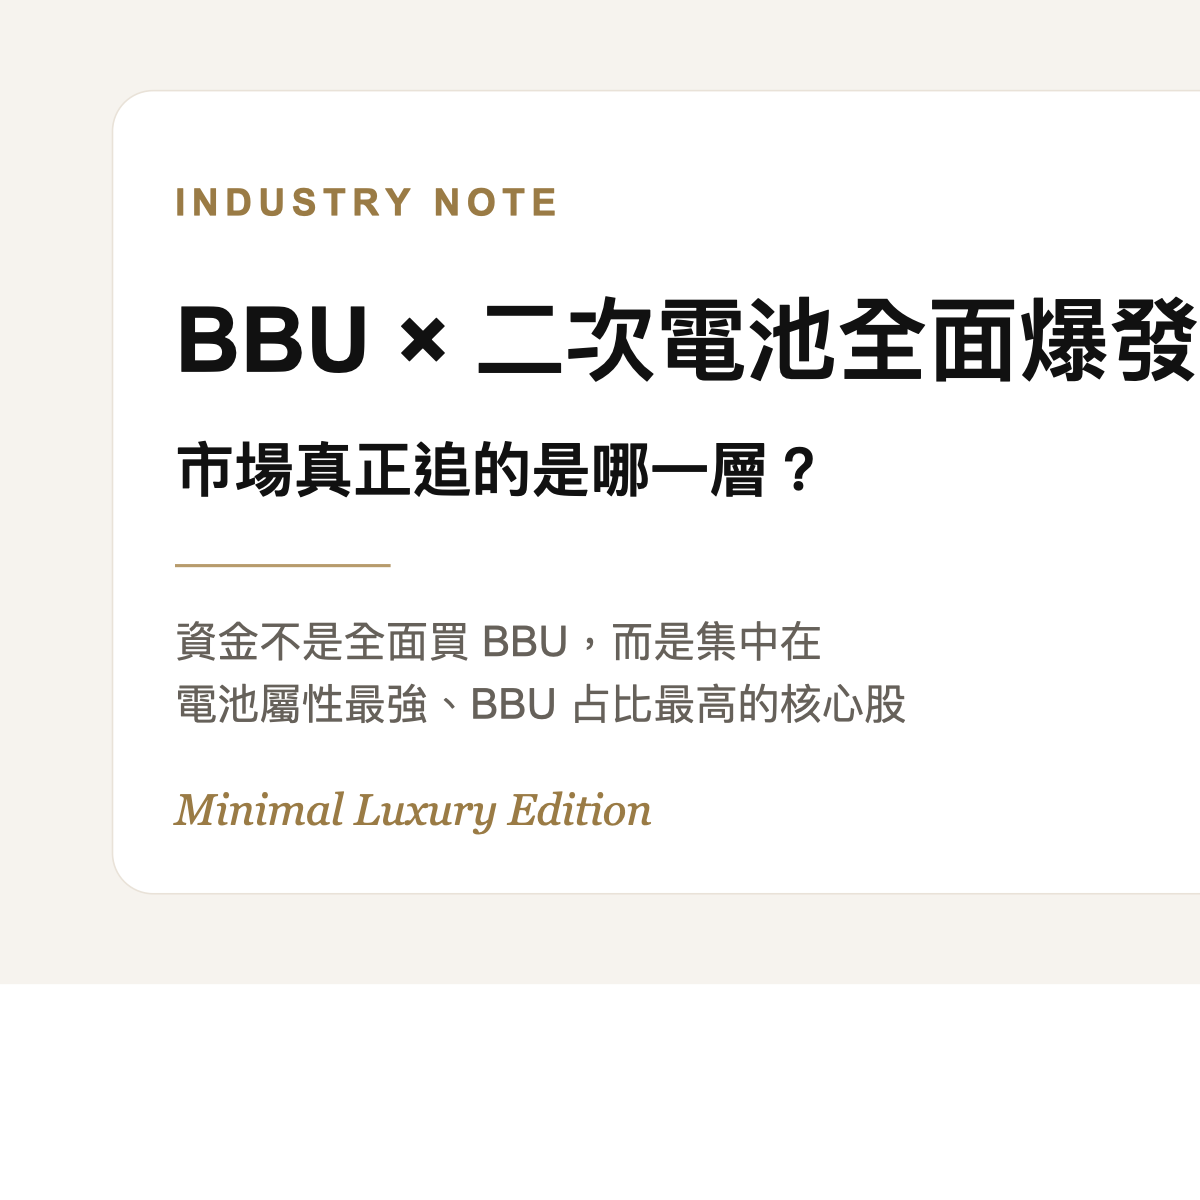
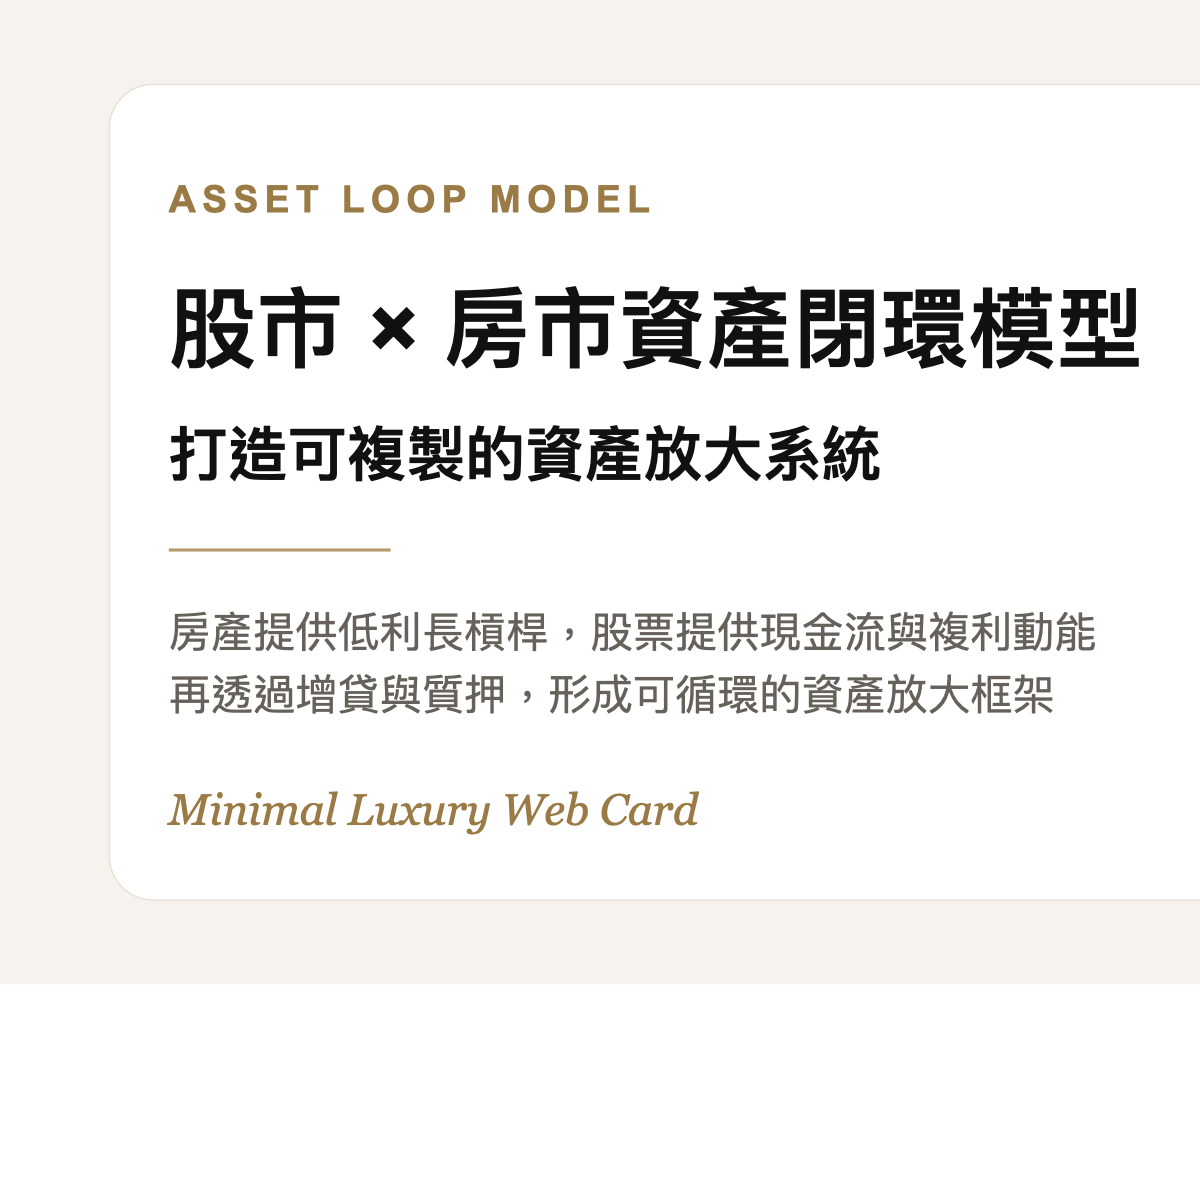
Publish asset loop landing page

Changed region(s): [[0.1233, 0.2158, 1.0, 0.6167], [0.1542, 0.6475, 0.5858, 0.7092], [0.1233, 0.1542, 0.555, 0.185]]

diff --git a/index.html b/index.html
@@ -3,11 +3,11 @@
 <head>
   <meta charset="UTF-8" />
   <meta name="viewport" content="width=device-width, initial-scale=1.0" />
-  <title>BBU × 二次電池全面爆發，市場真正追的是哪一層？</title>
-  <meta name="description" content="整理 BBU × 二次電池概念股文章重點、族群分化、方舟複盤觀點，以及圖片中可能對應公司名單。" />
-  <meta property="og:title" content="BBU × 二次電池全面爆發，市場真正追的是哪一層？" />
-  <meta property="og:description" content="資金不是全面買 BBU，而是集中追逐電池屬性最強、BBU 業務占比最高的核心股。" />
-  <meta property="og:type" content="article" />
+  <title>股市 × 房市資產閉環模型，打造可複製的資產放大系統</title>
+  <meta name="description" content="用房產低利長槓桿，結合股票高流動性與複利動能，整理成一套可理解的資產閉環模型與風控框架。" />
+  <meta property="og:title" content="股市 × 房市資產閉環模型" />
+  <meta property="og:description" content="用房產低利長槓桿，結合股票複利與現金流，形成可複製的資產放大系統。" />
+  <meta property="og:type" content="website" />
   <meta property="og:image" content="./cover.png" />
   <style>
     :root {
@@ -19,6 +19,7 @@
       --accent2: #e8dece;
       --line: #e9e2d8;
       --good: #9a7b45;
+      --warn: #8a5a44;
     }
     * { box-sizing: border-box; }
     body {
@@ -29,26 +30,59 @@
       line-height: 1.9;
     }
     .wrap {
-      max-width: 980px;
+      max-width: 1060px;
       margin: 0 auto;
-      padding: 48px 24px 88px;
+      padding: 42px 24px 88px;
     }
     .hero {
-      background: #ffffff;
+      background: #fff;
       border: 1px solid var(--line);
       border-radius: 28px;
-      padding: 44px;
+      padding: 48px;
       box-shadow: 0 18px 45px rgba(17, 17, 17, 0.05);
     }
-    h1 { font-size: 2.5rem; line-height: 1.22; margin: 0 0 14px; letter-spacing: -0.02em; }
-    h2 { font-size: 1.35rem; margin-top: 46px; letter-spacing: 0.01em; }
-    p, li { font-size: 1.02rem; }
-    .lead { color: var(--sub); font-size: 1.08rem; max-width: 760px; }
+    .eyebrow {
+      display: inline-block;
+      color: var(--good);
+      font-size: .9rem;
+      letter-spacing: .18em;
+      font-weight: 700;
+      margin-bottom: 12px;
+    }
+    h1 {
+      font-size: 2.7rem;
+      line-height: 1.2;
+      letter-spacing: -0.02em;
+      margin: 0 0 18px;
+    }
+    h2 {
+      font-size: 1.45rem;
+      margin: 46px 0 16px;
+      letter-spacing: .01em;
+    }
+    h3 {
+      font-size: 1.1rem;
+      margin: 0 0 8px;
+    }
+    p, li {
+      font-size: 1.02rem;
+    }
+    .lead {
+      color: var(--sub);
+      max-width: 820px;
+      font-size: 1.08rem;
+    }
+    .cover {
+      width: 100%;
+      border-radius: 24px;
+      margin: 26px 0 8px;
+      border: 1px solid var(--line);
+      box-shadow: 0 10px 28px rgba(17,17,17,.05);
+    }
     .grid {
       display: grid;
       grid-template-columns: repeat(auto-fit, minmax(240px, 1fr));
       gap: 16px;
-      margin-top: 22px;
     }
     .card {
       background: var(--card);
@@ -60,94 +94,218 @@
     .tag {
       display: inline-block;
       padding: 4px 10px;
+      border-radius: 999px;
       background: #f7f1e8;
       color: var(--good);
-      border-radius: 999px;
-      font-size: 0.85rem;
+      font-size: .83rem;
       font-weight: 700;
+      margin-bottom: 10px;
+    }
+    .timeline {
+      display: grid;
+      gap: 18px;
+    }
+    .step {
+      background: #fff;
+      border: 1px solid var(--line);
+      border-radius: 22px;
+      padding: 24px;
+    }
+    .step-no {
+      color: var(--good);
+      font-weight: 800;
+      letter-spacing: .14em;
+      font-size: .85rem;
       margin-bottom: 8px;
+    }
+    .note, .warn {
+      border-radius: 18px;
+      padding: 18px 20px;
+      margin-top: 18px;
     }
     .note {
       background: #fffdfa;
       border-left: 4px solid var(--accent);
-      padding: 14px 16px;
-      border-radius: 12px;
       color: var(--sub);
     }
-    .list li { margin-bottom: 8px; }
-    .footer {
-      margin-top: 48px;
-      color: #8a8278;
-      font-size: 0.92rem;
+    .warn {
+      background: #fff8f5;
+      border-left: 4px solid #bb7a5f;
+      color: var(--warn);
     }
-    a { color: #8c6b35; }
-    .cover {
-      width: 100%;
-      max-width: 100%;
-      border-radius: 20px;
-      margin: 24px 0;
-      border: 1px solid var(--line);
-      box-shadow: 0 10px 30px rgba(0,0,0,.06);
+    .two {
+      display: grid;
+      grid-template-columns: repeat(auto-fit, minmax(300px, 1fr));
+      gap: 18px;
+    }
+    ul { padding-left: 1.2rem; }
+    .cta {
+      background: #111111;
+      color: #f6f3ee;
+      border-radius: 28px;
+      padding: 34px;
+      margin-top: 48px;
+    }
+    .cta p { color: #e7dfd3; }
+    .btn {
+      display: inline-block;
+      margin-top: 10px;
+      padding: 12px 18px;
+      border-radius: 999px;
+      background: #f6f3ee;
+      color: #111111;
+      text-decoration: none;
+      font-weight: 700;
+    }
+    .footer {
+      margin-top: 42px;
+      color: #8a8278;
+      font-size: .92rem;
     }
   </style>
 </head>
 <body>
   <main class="wrap">
     <section class="hero">
-      <div class="tag">INDUSTRY NOTE</div>
-      <h1>BBU × 二次電池全面爆發，市場真正追的是哪一層？</h1>
-      <p class="lead">這波盤面不是全面亂買 BBU，而是明顯集中在電池屬性最強、BBU 業務占比最高的核心公司。真正要看的不是題材有沒有熱，而是資金到底往哪一層集中。</p>
+      <div class="eyebrow">ASSET LOOP MODEL</div>
+      <h1>股市 × 房市資產閉環模型，打造可複製的資產放大系統</h1>
+      <p class="lead">核心邏輯是用房產的低利長槓桿，結合股票的高流動性與複利動能，形成一套可循環、可擴張、但必須嚴守風控的資產操作框架。</p>
     </section>
 
-    <img class="cover" src="./cover.png" alt="BBU 概念股整理圖卡" />
+    <img class="cover" src="./cover.png" alt="股市與房市資產閉環模型圖卡" />
 
-    <h2>一、這篇文章的核心重點</h2>
-    <ul class="list">
-      <li>BBU（Battery Backup Unit）是 AI 伺服器機櫃中的備援供電系統，當外部電力異常時，可確保伺服器完成資料寫入與安全切換。</li>
-      <li>NVIDIA 在 GB200、GB300 架構下，讓 BBU 從過去的選配逐步走向標配，需求邏輯因此大幅強化。</li>
-      <li>市場今天並不是平均追整個 BBU 概念，而是精準追逐「電池屬性強、BBU 受惠深」的核心股。</li>
-    </ul>
-
+    <h2>這套模型在做什麼</h2>
     <div class="grid">
       <div class="card">
-        <div class="tag">主線觀察</div>
-        <p><strong>真正爆發的核心</strong><br>順達、新盛力、AES-KY、加百裕</p>
+        <div class="tag">核心一</div>
+        <h3>房產當資產基座</h3>
+        <p>用低利率、長年限的房貸槓桿，建立抗通膨、可增值、可再融資的底層資產。</p>
       </div>
       <div class="card">
-        <div class="tag">分化觀察</div>
-        <p><strong>相對溫和的 BBU 概念</strong><br>台達電、光寶科屬電源轉換層，今日明顯不在最強主升段。</p>
+        <div class="tag">核心二</div>
+        <h3>股票當現金流與複利引擎</h3>
+        <p>用高股息 ETF 支應利息壓力，用成長與槓桿型部位爭取資產加速放大。</p>
       </div>
       <div class="card">
-        <div class="tag">市場訊號</div>
-        <p><strong>資金投票邏輯</strong><br>電池屬性越純、BBU 業務占比越高，漲幅通常越集中。</p>
+        <div class="tag">核心三</div>
+        <h3>再增貸與質押形成循環</h3>
+        <p>當房產與股票部位累積到一定水位後，再透過增貸與質押擴張下一輪頭期款。</p>
       </div>
     </div>
 
-    <h2>二、圖片中被模糊公司欄位，高機率對應名單</h2>
-    <div class="note">以下是依據文章正文、可見數字輪廓、上下文描述交叉比對後的高機率結果。最可靠的是 6 檔主名單，其中一列模糊代號無法 100% 確認，不建議硬判。</div>
-    <ul class="list">
-      <li><strong>3211 順達</strong>，二次電池模組，BBU 核心製造商</li>
-      <li><strong>4931 新盛力</strong>，二次電池模組，BBU 黑馬</li>
-      <li><strong>6781 AES-KY</strong>，鋰電池模組，BBU 高附加價值領導廠</li>
-      <li><strong>3323 加百裕</strong>，二次電池模組，轉型切入 BBU</li>
-      <li><strong>2308 台達電</strong>，BBU 電源轉換層</li>
-      <li><strong>2301 光寶科</strong>，BBU 電源轉換層</li>
-    </ul>
+    <h2>500 萬可操作的四階段 SOP</h2>
+    <div class="timeline">
+      <section class="step">
+        <div class="step-no">STEP 01</div>
+        <h3>以房代管，先建立資產基座</h3>
+        <p>以 500 萬作為頭期款，鎖定具備增值潛力的地段，例如桃園龜山、青埔等科技走廊，購入約 2,000 萬至 2,500 萬的預售屋或新成屋。</p>
+        <ul>
+          <li>房地產的優勢在於，一般人可取得利率最低、年限最長的槓桿。</li>
+          <li>房產本質上是抗通膨的儲蓄桶，若選對地段，兼具保值與轉貸彈性。</li>
+        </ul>
+      </section>
 
-    <h2>三、方舟複盤怎麼看這篇</h2>
-    <ul class="list">
-      <li>這不是低位埋伏期，比較像題材已被市場明確認證後的升溫階段。</li>
-      <li>如果你看的是操作，不是看到 BBU 就追，而是先看自己手上的部位是不是在真正主線。</li>
-      <li>主線股如果已經進入升溫區，重點會從「要不要買」轉成「要不要等節奏、控風險、分批調節」。</li>
-      <li>後續若題材續強，資金高機率仍優先回流到電池模組與高壓 BBU 能力較強的公司，而不是平均分散到所有概念股。</li>
-    </ul>
+      <section class="step">
+        <div class="step-no">STEP 02</div>
+        <h3>透過轉貸或增貸，創造低成本現金流</h3>
+        <p>當房產持有 3 到 5 年後，若資產增值，可透過增貸或轉貸把房屋增值的一部分提領出來，變成可操作資金。</p>
+        <ul>
+          <li>關鍵不是把負債拉高，而是把房產裡的低成本資金抽出來使用。</li>
+          <li>例如房產由 2,300 萬增值到 3,000 萬，可能可多提領 400 到 500 萬現金。</li>
+        </ul>
+      </section>
 
-    <h2>四、我的結論</h2>
-    <p>這篇文章真正有價值的地方，不是告訴你 BBU 很熱，而是清楚揭示了資金今天在 BBU 族群內部的選股邏輯。市場不是全面追 BBU，而是優先押注那些電池屬性最強、BBU 業務占比最高、未來規格升級受惠最直接的核心公司。</p>
+      <section class="step">
+        <div class="step-no">STEP 03</div>
+        <h3>股市加速，建立股息自動繳貸系統</h3>
+        <p>把低利資金投入自己熟悉的高股息與高波動成長工具，讓現金流與淨值成長分工合作。</p>
+        <ul>
+          <li><strong>00919</strong>：提供股息，用來支應約 2.3% 左右的房貸利息，形成利差套利。</li>
+          <li><strong>00631L / TQQQ</strong>：利用波動與複利效果，爭取更高資產成長，目標是複製下一間房的頭期款。</li>
+        </ul>
+      </section>
+
+      <section class="step">
+        <div class="step-no">STEP 04</div>
+        <h3>股票質押，不賣資產也能複製下一輪</h3>
+        <p>當股票庫存累積到一定規模後，不急著賣，而是使用股票質押取得資金，再投入下一間房的頭期款、裝潢或新的資產配置。</p>
+        <ul>
+          <li>房產 1 持續增值。</li>
+          <li>股票組合持續配息與增值。</li>
+          <li>房產 2 由房產增貸或股票質押資金供養。</li>
+        </ul>
+      </section>
+    </div>
+
+    <h2>這個閉環為什麼會吸引人</h2>
+    <div class="two">
+      <div class="card">
+        <div class="tag">槓桿結構</div>
+        <p>房貸通常是一般人最便宜也最長期的融資工具，若房產穩定增值，就有機會成為整個資產系統的低成本燃料來源。</p>
+      </div>
+      <div class="card">
+        <div class="tag">複利結構</div>
+        <p>股票提供的是流動性、可調整性與再擴張能力。當現金流可覆蓋利息，整個系統就有機會進入可複製循環。</p>
+      </div>
+    </div>
+
+    <div class="warn">
+      <strong>重要提醒：</strong> 這是一套高槓桿、高執行要求的模型，不是保證獲利公式。它的成敗，很大程度取決於現金流管理、買點、地段、資金紀律與風控能力。
+    </div>
+
+    <h2>完美閉環的三個風控重點</h2>
+    <div class="grid">
+      <div class="card">
+        <div class="tag">風控一</div>
+        <h3>現金流壓力測試</h3>
+        <p>至少保留 12 到 18 個月緊急預備金，避免在股市大跌、空租、升息或收入波動時，被迫賣出資產。</p>
+      </div>
+      <div class="card">
+        <div class="tag">風控二</div>
+        <h3>維持率與槓桿監控</h3>
+        <p>股票質押的維持率務必保持在安全水位，例如 200% 以上，盡量避免在劇烈回檔時被追繳或斷頭。</p>
+      </div>
+      <div class="card">
+        <div class="tag">風控三</div>
+        <h3>地段與轉貸能力</h3>
+        <p>房市閉環能否成立，關鍵不只在買到房，更在房產是否能穩定增值、保值、好轉貸。</p>
+      </div>
+    </div>
+
+    <h2>新手怎麼開始學</h2>
+    <div class="two">
+      <div class="card">
+        <div class="tag">股票</div>
+        <p>運用「方舟運算」App，搭配擺渡人制度，從基礎觀念到實際操作框架逐步建立。</p>
+        <p><strong>擺渡人編號：</strong>A08549</p>
+      </div>
+      <div class="card">
+        <div class="tag">房地產</div>
+        <p>房地產投資不一定只能靠買賣價差，若想理解房商、現金流與閉環邏輯，可以從講座與社群開始建立基本觀念。</p>
+      </div>
+    </div>
+
+    <h2>2026 房局講座資訊</h2>
+    <div class="card">
+      <ul>
+        <li><strong>日期：</strong>2026 年 5 月 30 日</li>
+        <li><strong>時間：</strong>下午 14:00 - 16:00</li>
+        <li><strong>地點：</strong>台北市松山區南京東路四段120巷11號10樓（兆基商務中心）</li>
+        <li><strong>費用：</strong>粉絲優惠價 NT$500</li>
+      </ul>
+      <div class="note">
+        私訊 IG 關鍵字「課程」，即可取得社群連結與報名資訊。從鑫彤這邊報名者，另有專屬優惠。
+      </div>
+    </div>
+
+    <section class="cta">
+      <h2 style="margin-top:0;color:#f6f3ee;">想學股票 × 房市的資產閉環思維？</h2>
+      <p>先把架構學懂，再談槓桿。先顧好現金流，再談複製。這不是一夜致富模型，而是一套建立資產系統的操作觀念。</p>
+      <a class="btn" href="#">私訊 IG：課程</a>
+    </section>
 
     <div class="footer">
-      <p>原始文章來源：<a href="https://cmnews.com.tw/article/cmoney-566a102f-3e6c-11f1-b9df-34c47aefd127?utm_medium=article_page&utm_source=copy_link">CMoney 投資網誌</a></p>
-      <p>本頁為整理分析頁，供研究與複盤使用。</p>
+      本頁內容為公開整理版，用於資訊呈現與教學說明。涉及投資與槓桿操作前，請自行評估風險並做好資金控管。
     </div>
   </main>
 </body>
